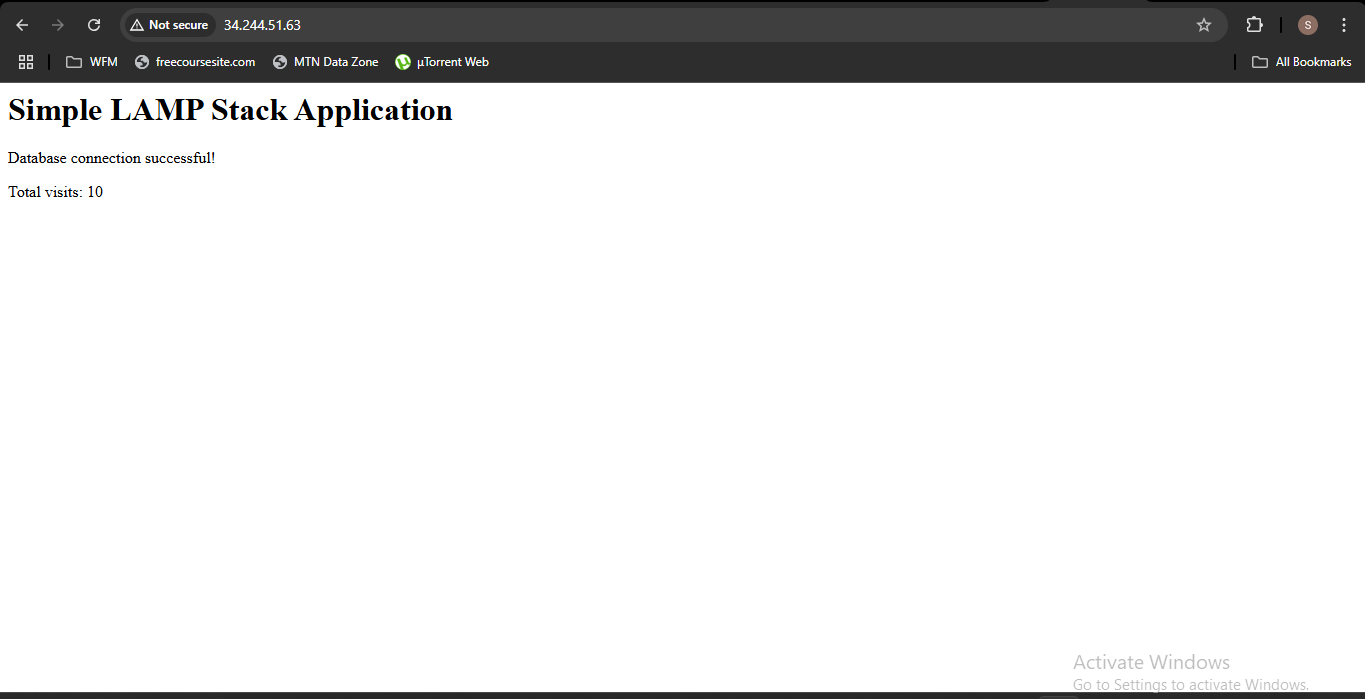
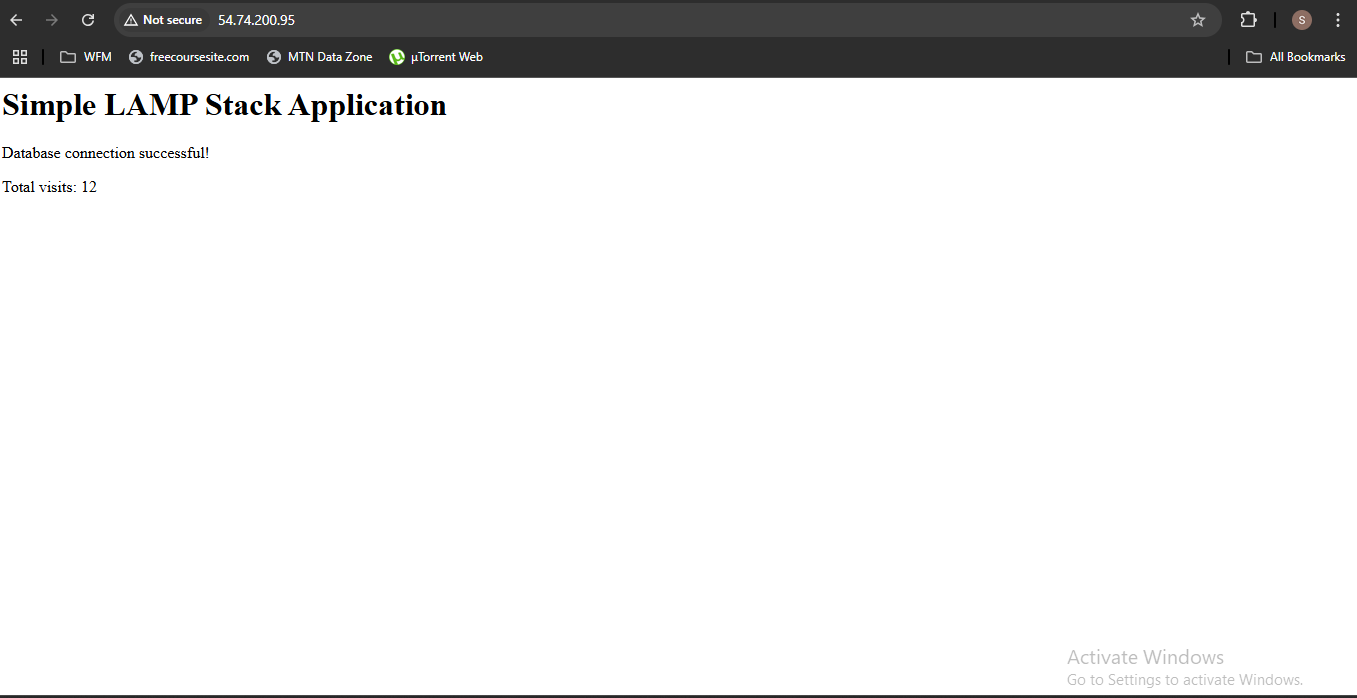
updated ec2 name and Link to App

Changed region(s): [[0.0, 0.0, 1.0, 0.1805], [0.0, 0.9327, 1.0, 1.0], [0.0, 0.2106, 0.1548, 0.3009]]

diff --git a/README.md b/README.md
@@ -5,7 +5,7 @@ This project provisions a 3-tier LAMP (Linux, Apache, MySQL, PHP) stack on AWS u
 ## Live Application Link:
 
 ```
-  http://34.244.51.63
+  http://54.74.200.95
 ```
 
 ![Application Page](./Live-Application-Link.png)
